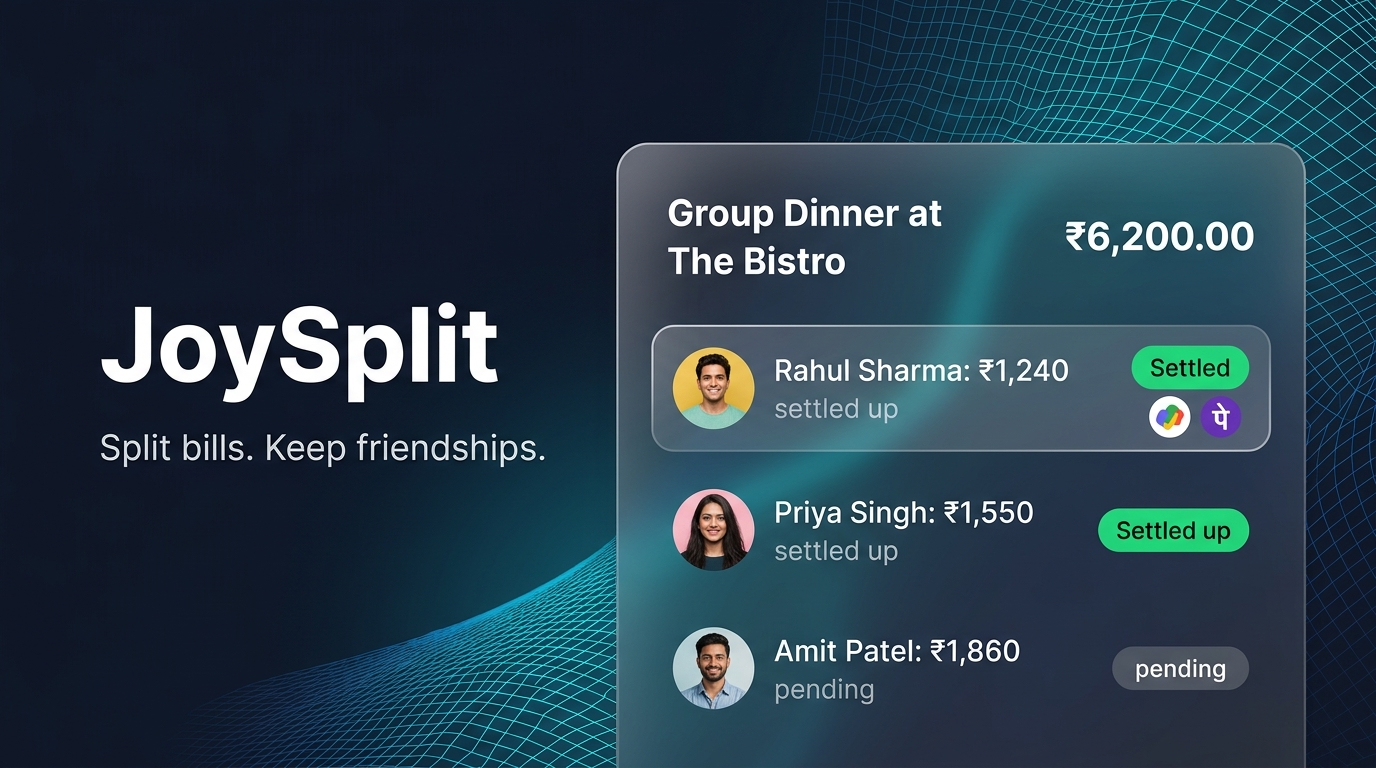
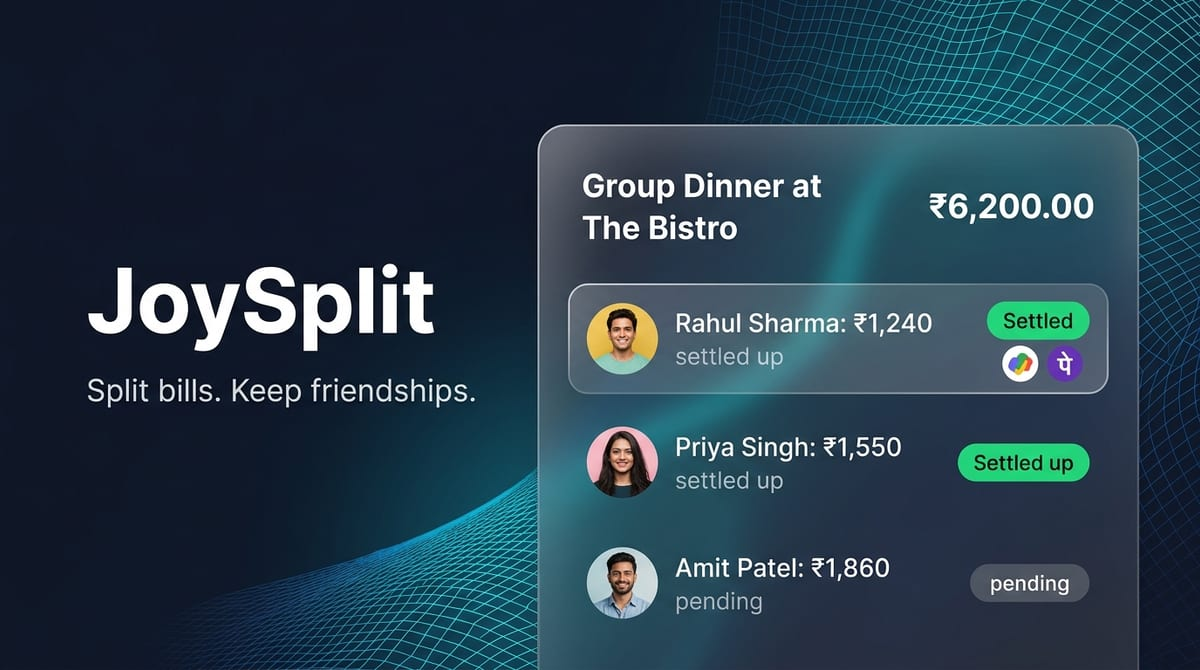
fix: link previews show the JoySplit card again
The share image was 664 KB (WhatsApp skips previews over ~300 KB) and the
home page carried two og:image tags. Now there is one compressed 86 KB card
for every page, with a version query so apps fetch it fresh.

Changed region(s): [[0.0617, 0.5672, 0.1233, 0.597], [0.8325, 0.6866, 0.8633, 0.7164], [0.1542, 0.5672, 0.185, 0.597]]

diff --git a/frontend/app/layout.tsx b/frontend/app/layout.tsx
@@ -31,9 +31,12 @@ export const metadata: Metadata = {
     locale: "en_IN",
     images: [
       {
-        url: "/og.jpg",
+        // One small card for every page (WhatsApp skips previews over ~300 KB).
+        // Bump ?v= whenever the image changes, so apps fetch it again.
+        url: "/og.jpg?v=2",
         width: 1200,
-        height: 630,
+        height: 670,
+        type: "image/jpeg",
         alt: `${SITE.name} — ${SITE.tagline}`,
       },
     ],
@@ -42,7 +45,7 @@ export const metadata: Metadata = {
     card: "summary_large_image",
     title: `${SITE.name} — ${SITE.tagline}`,
     description: SITE.description,
-    images: ["/og.jpg"],
+    images: [{ url: "/og.jpg?v=2", alt: `${SITE.name} — ${SITE.tagline}` }],
   },
   robots: { index: true, follow: true },
 }
